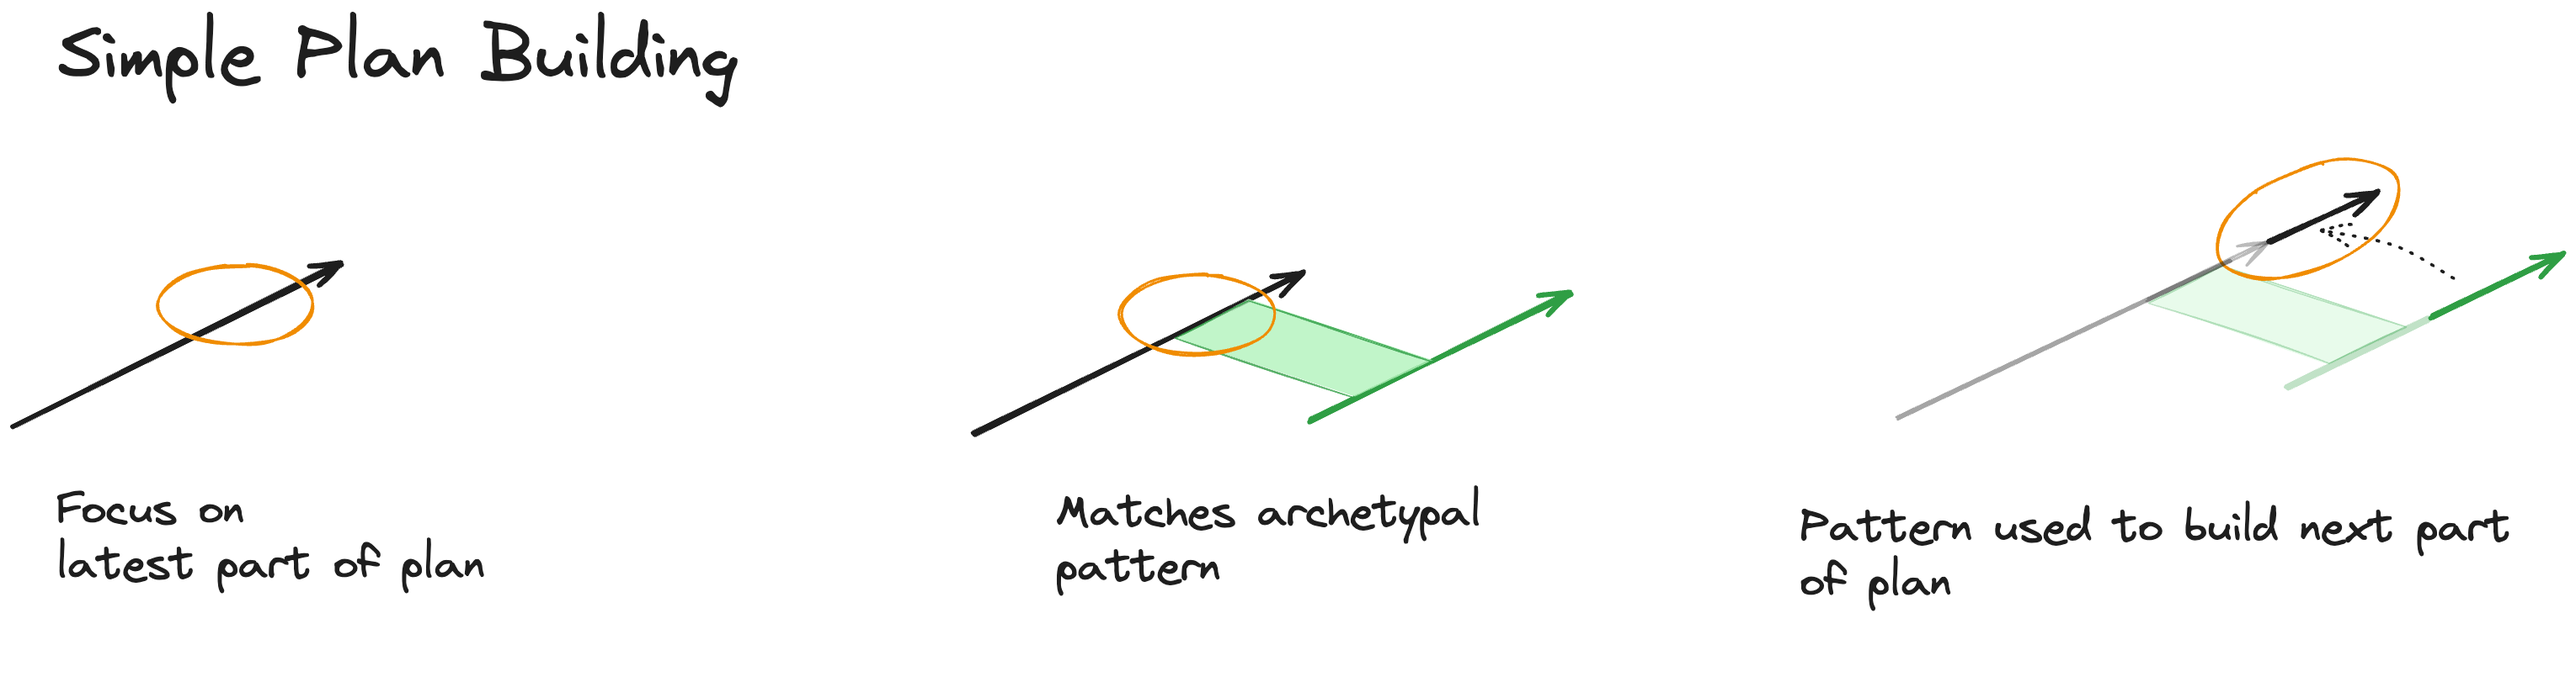
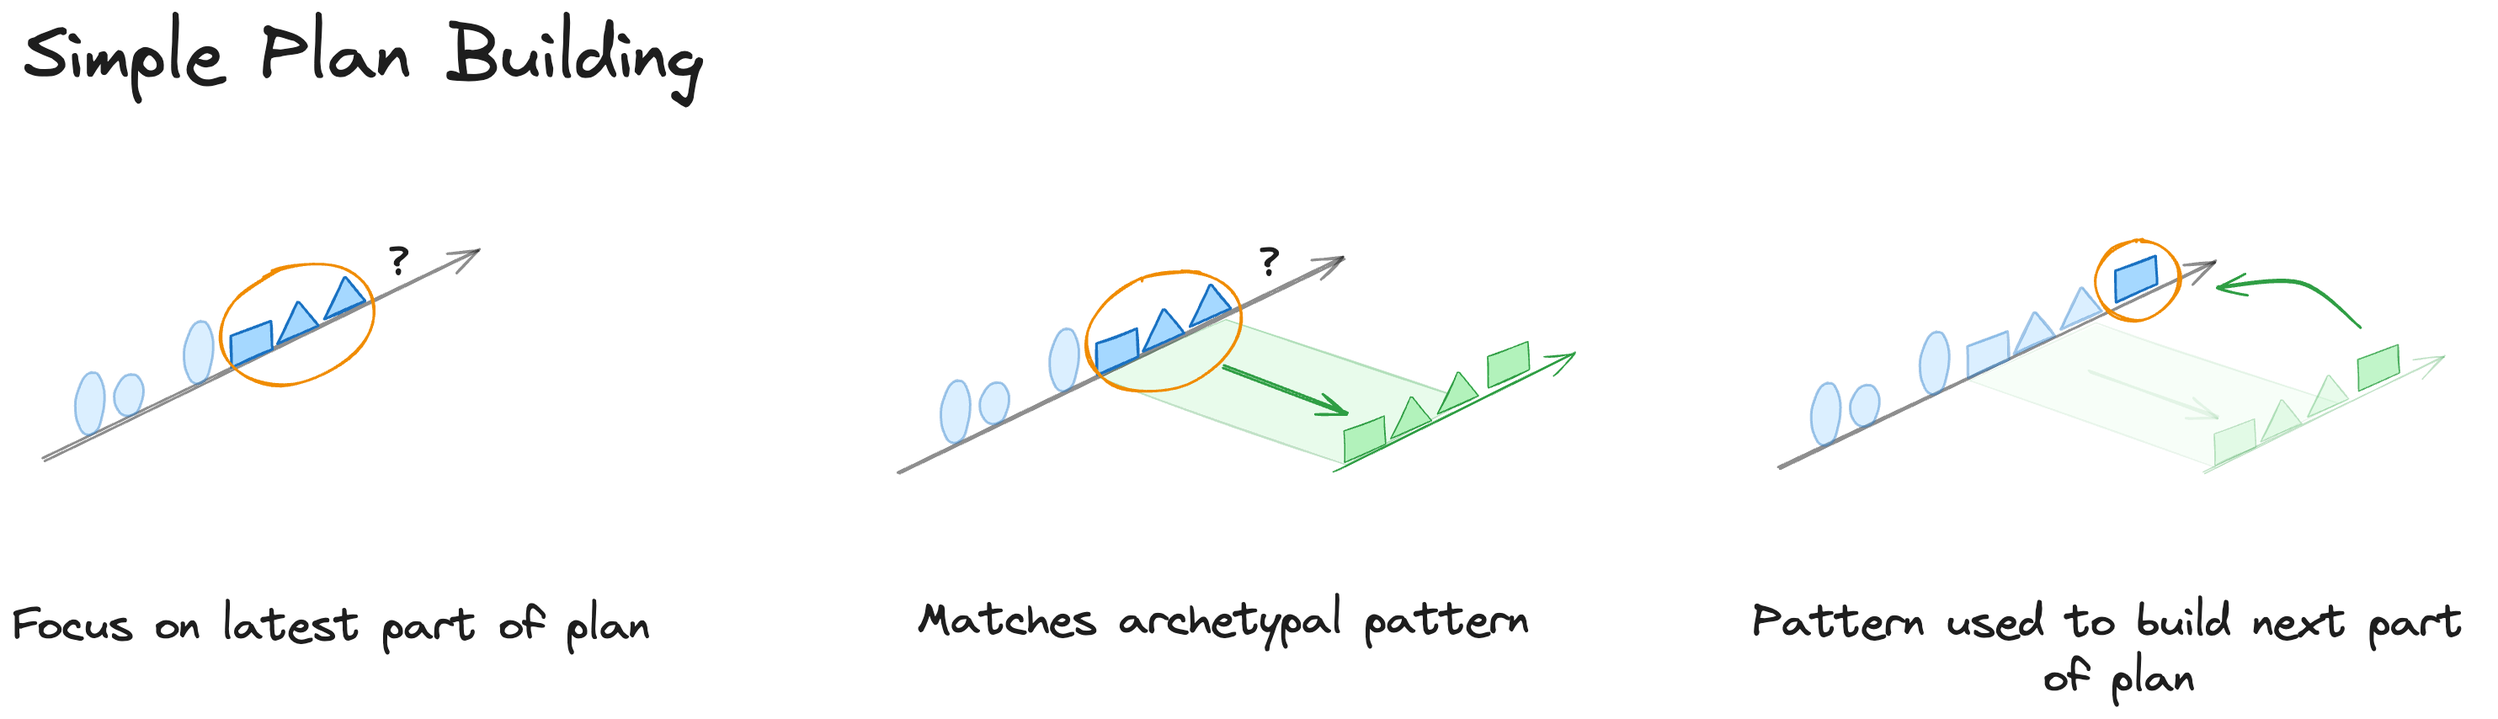
reasoning notes

diff --git a/assets/notes/reasoning.md b/assets/notes/reasoning.md
@@ -1,4 +1,4 @@
-# Reasoning in Pictures
+# Human Cognition in Pictures
 
 Author: Robert Beckwith
 </br>
@@ -6,17 +6,46 @@ Version: pre-draft
 
 //todo - settle naming conventions.
 
-## Stories and Association - The Warp and Weft
+This document presents a view on human cognition. This is an initial sketch to encourage feedback with the hope that this could become a useful framework for thinking about human thinking and potentially other sorts of thinking. It is not intended to be a comprehensive description - complex problems do not usually have simple answers.
 
-This proposal presents thinking as a weave of stories and associative connections between stories, much as tapestries are woven from a "warp" and cross-cutting "weft".
+In this view cognition is divided into two key parts...
 
-The warp can be seen as narrative knowledge "this, then that, then that" - temporal sequences that we use to predict, plan and generally understand the world. These will be called 'stories" in this document.
+* **World Model** - our internal model of the world and its mechanisms.
+* **Value Assessment** - our value judgement of information, i.e. how we feel about it.
 
-The weft can be seen those things that stories have in common, i.e. similar patterns. These will be called "associations" in this document.
+
+## World Model
+
+### Stories and Association
+
+The information in this world model is in the form of **stories** - temporal sequences of the form "_this, then that, then that_". We use these to predict, plan and generally understand the world. Each moment in a sequence is built from certain "ingredients of understanding" such as 3D geometry and colours.
+
+The primary activity of our minds is the process of finding connections between these stories. It is this lateral associative activity that weaves the story threads together into a complete information model much like the warp and weft of a tapestry.
+
 <br/>
 <img src="../images/fig-weave-warp-and-weft.png" width="900"/>
+<br/>
 
-## Story Ingredients
+Examples of stories include...
+
+* We way that water drops flow down a window
+* That time you accidentally threw a ball though Mr Smith's window
+* The typical process for boarding an aircraft
+* Your childhood
+* The sensations of a cold drink on a hot day
+* Ideas about the future of humanity
+* How objects fall in gravity
+* The opening bars of a song
+
+
+ 
+ _**In all cases, these include how you feel or felt about these things**_
+
+## Stories
+### Story Ingredients
+
+> **Terminology Note:** Similar terms include _templates_ and _categories of understanding_
+
 <br/>
 <img src="../images/fig-weave-story-ingredients.png" width="900"/>
 <br/>
@@ -24,18 +53,26 @@ Story Sequences
 
 todo
 
-## Associative Knowledge
+## Association
+
+### Matching on Story Patterns
 
 The knowledge encapsulated by association is an essential component in thinking...
 <br/>
-<img src="../images/fig-weave-associative-knoledge.png" with="900"/>
+<img src="../images/fig-weave-associative-knoledge.png" with="700"/>
 <br/>
 It will be used when constructing narratives as it allows past experience to be applied to new but similar situations.
+
+Strong patterns may be...
+* Shared by many stories
+* Have a strong emotion attached (including surprise)
+* Recently encountered
+
 <br/>
 
-## Simple Plan Building
+### Simple Plan Building
 
-The options that we are aware of will come to mind based on association with previous experience.
+When we are planning, the next option that comes to mind will be based on association with previous experience.
 
 <img src="../images/fig-weave-reasoning-basic.png" width="900"/>
 <br/>
@@ -52,15 +89,41 @@ Examples include...
 * Common activities (walking, crossing the road, preparing breakfast ...)
 * Common thinking patterns (adding a list of numbers, choosing )
 
-## Changing Behaviour
+### Lenses on Life
+
+The above mechanism will affect what we notice in the complex world of our environment and our thoughts.
+
+### Creativity
+
+
+### Changing Behaviour
 
 todo
 
 <img src="../images/fig-weave-changing-bahaviour.png" width="900"/>
 
-## Example of Relevant vs Creative Thinking
+### Example of Relevant vs Creative Thinking
 
 As an example, we could say that one mechanism for adjusting the level of creativity of the next occurring thought is the amount of data that we use as a source when looking for a matching pattern...
 <br/>
 <img src="../images/fig-weave-creativity.png" width="900"/>
 <br/>
+
+## Feelings and Value Judgements
+
+todo
+
+### Focus of Attention
+
+### Slow Thinking
+
+* Small focus for targeted assessment
+* We experience things in sequence
+* Holding focus to stimulate additional options
+* Slow thinking patterns
+
+
+### Levels of Evaluation
+
+### Storing Evaluations
+
